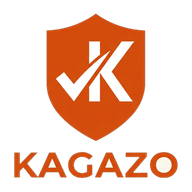
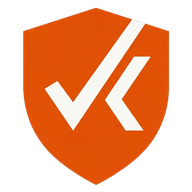
feat(brand): switch official Kagazo emblem to Concept 1 sovereign K-tick shield and update all assets

diff --git a/components/ui/KagazoLogo.tsx b/components/ui/KagazoLogo.tsx
@@ -16,28 +16,26 @@ export function KagazoLogo({ className = 'w-6 h-6', size, ...props }: KagazoLogo
       height={size}
       {...props}
     >
-      {/* Saffron-Orange Sovereign Shield */}
+      {/* Saffron-Orange Sovereign Shield (Concept 1) */}
       <path
-        d="M50 8C38 14 24 17 15 19V52C15 74 30 89 50 94C70 89 85 74 85 52V19C76 17 62 14 50 8Z"
+        d="M50 6L13.7 17.7V47.6C13.7 69 28 85 50 94C72 85 86.3 69 86.3 47.6V17.7Z"
         fill="#E6570B"
       />
 
-      {/* K Vertical Stem */}
-      <rect x="44.5" y="26" width="7" height="41" rx="0.5" fill="white" />
-
-      {/* Dynamic Verification Checkmark Swoosh */}
-      <path
-        d="M20.5 52L33.5 67L63 32C55 41 44 51 33.5 59L26 50L20.5 52Z"
+      {/* Dynamic Verification Checkmark Slicing Through Shield */}
+      <polygon
+        points="73.9,13.8 67.6,12.3 38.6,53.0 30.7,42.7 24.7,46.3 38.3,66.5"
         fill="white"
       />
 
-      {/* Upper Arm of K */}
-      <polygon points="51.5,41 68,26 77,26 51.5,50" fill="white" />
-
-      {/* Lower Leg of K */}
-      <polygon points="51.5,43 76,67 66,67 51.5,53" fill="white" />
+      {/* K-Chevron Dynamic Wing Completing The K */}
+      <polygon
+        points="76.4,30.3 69.0,30.3 54.6,51.5 64.8,66.8 73.0,66.6 62.5,51.2"
+        fill="white"
+      />
     </svg>
   );
 }
 
 export default KagazoLogo;
+
